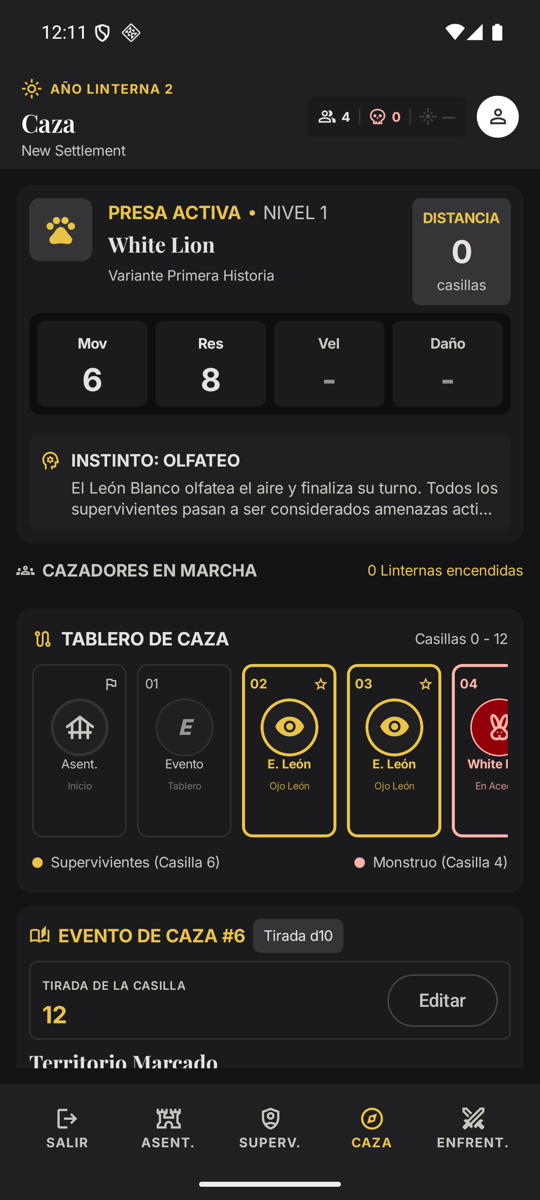
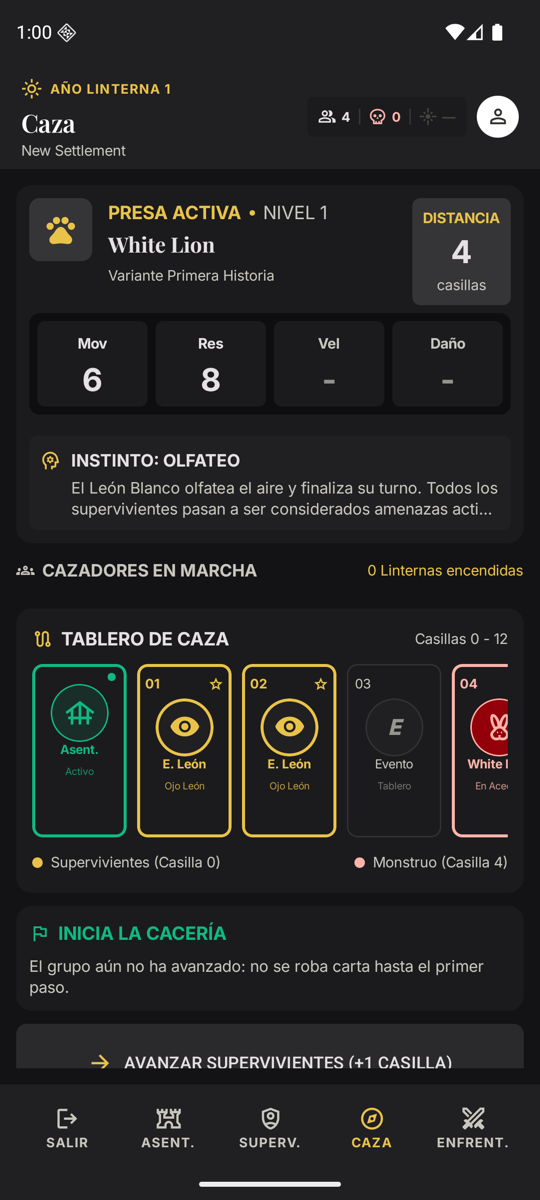
docs: add real screenshots and an evolution gallery to the README
The four app screenshots are retaken on a clean emulator (the previous hunt shot came from a stored hunt created before the event-space fix). The evolution gallery shows the same screen across the first web dashboard and three app versions, built from their commits.

diff --git a/README.md b/README.md
@@ -71,6 +71,18 @@ Las reglas de capas y la convención de comentarios están en [ARCHITECTURE.md](
 
 ## Evolución
 
+<table>
+  <tr align="center">
+    <td colspan="4"><img src="docs/img/evolution-1-web.png" width="420" alt="Primer panel web"><br>3 oct · panel web</td>
+  </tr>
+  <tr align="center" valign="top">
+    <td><img src="docs/img/evolution-2-skeleton.png" width="170" alt="Primera app Android con Material por defecto"><br>5 oct · primera app</td>
+    <td><img src="docs/img/evolution-3-material.png" width="170" alt="Paso 1 del asentamiento con datos reales"><br>9 oct · paso 1 funcional</td>
+    <td><img src="docs/img/evolution-4-shell.png" width="170" alt="Mismo paso con el tema Atramentum y las pestañas"><br>10 oct · tema Atramentum</td>
+    <td><img src="docs/img/evolution-5-now.png" width="170" alt="El mismo paso en la versión actual"><br>hoy</td>
+  </tr>
+</table>
+
 | Fecha | Hito |
 | --- | --- |
 | 3 oct 2026 | Primer gestor de asentamientos: panel web con supervivientes, recursos, innovaciones y registro |

diff --git a/README.en.md b/README.en.md
@@ -73,6 +73,18 @@ Layer rules and the code-comment convention are in [ARCHITECTURE.md](docs/ARCHIT
 
 ## Evolution
 
+<table>
+  <tr align="center">
+    <td colspan="4"><img src="docs/img/evolution-1-web.png" width="420" alt="First web dashboard"><br>3 Oct · web dashboard</td>
+  </tr>
+  <tr align="center" valign="top">
+    <td><img src="docs/img/evolution-2-skeleton.png" width="170" alt="First Android app, default Material"><br>5 Oct · first app</td>
+    <td><img src="docs/img/evolution-3-material.png" width="170" alt="Settlement step 1 with real data"><br>9 Oct · working step 1</td>
+    <td><img src="docs/img/evolution-4-shell.png" width="170" alt="Same step with the Atramentum theme and tabs"><br>10 Oct · Atramentum theme</td>
+    <td><img src="docs/img/evolution-5-now.png" width="170" alt="The same step in the current version"><br>today</td>
+  </tr>
+</table>
+
 | Date | Milestone |
 | --- | --- |
 | 3 Oct 2026 | First settlement manager: web dashboard with survivors, resources, innovations and a log |
